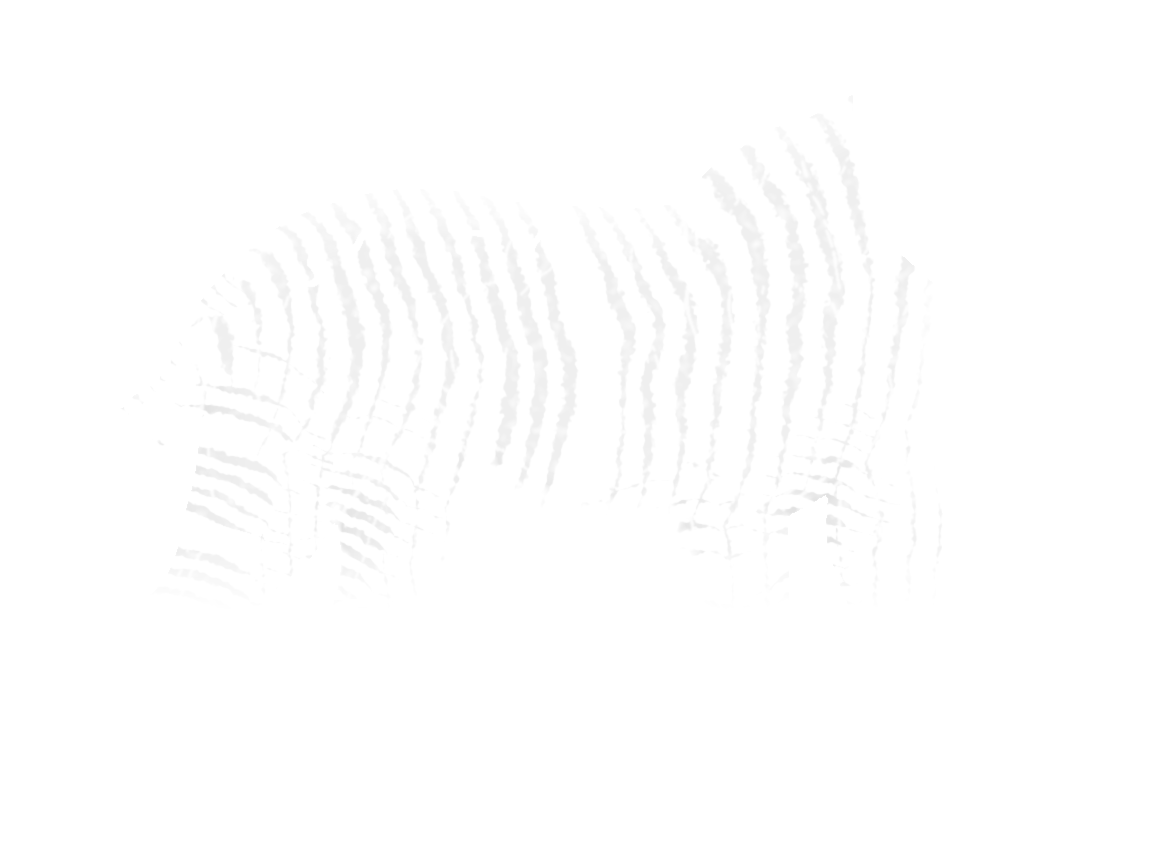
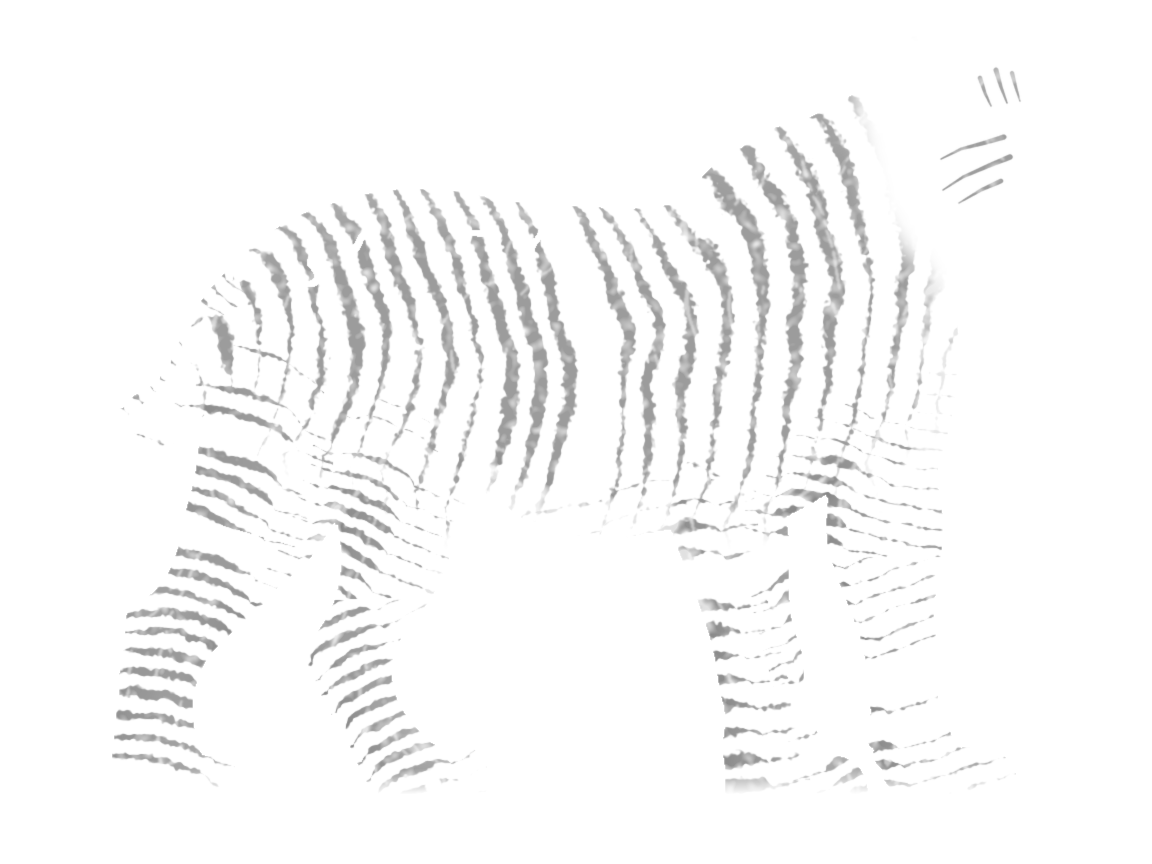
Portraits: Ochre's v4 faintstripe masks (limb bands, cheek/brow strokes); black faintstripe x0.5
- markings_faintstripe.png in portrait-male/ and portrait-female/: Ochre v4 (limb bands, cheek/brow strokes, stronger tan masks)
- compositor: melan + faintstripe multiplier 0.4 -> 0.5 (Ochre's proposal; Anna asked black up a little, still subtle;
  Director's call) -> 0.175/0.30/0.425; rounding 2 dp -> 4 dp so 0.175 stays exact
- tests updated; black spots/dorsal and other coats unchanged

diff --git a/test/compositor.test.js b/test/compositor.test.js
@@ -66,7 +66,7 @@ test('genesToLayers covers every creator option (cat-creator-spec v0.1 §3)', ()
     assert.strictEqual(L.sabers.tint, '#EFE7D2');
     const mk = Object.keys(L).filter((k) => k.startsWith('markings_'));
     if (m === 'plain') assert.deepStrictEqual(mk, []);
-    else { assert.deepStrictEqual(mk, ['markings_' + m]); assert.strictEqual(L[mk[0]].opacity, c === 'melan' && m === 'faintstripe' ? 0.24 : 0.6);
+    else { assert.deepStrictEqual(mk, ['markings_' + m]); assert.strictEqual(L[mk[0]].opacity, c === 'melan' && m === 'faintstripe' ? 0.3 : 0.6);
       assert.strictEqual(L[mk[0]].tint, c === 'melan' ? '#3A3836' : c === 'leuc' ? '#E6DED2' : multTint(hex)); }
     assert.ok(!Object.keys(L).some((k) => k.startsWith('white_') || k === 'age_elder'));
     for (const l of Object.keys(L)) if (l !== 'eye_right' || true) assert.ok(mf.layers.some((x) => x.id === l), `${l} in manifest`);
@@ -134,10 +134,10 @@ test('Ochre item 7: black (melan) markings draw after sheen with tint #3A3836, s
   assert.strictEqual(C.genesToLayers({ v: 1, loci: { coat: ['melan', 'leuc'], marking: ['spotted', 'spotted'] } }).markings_spotted.after, undefined);   // ash unchanged
   assert.strictEqual(C.TINTS.markingsMelan, '#3A3836');
 });
-test('Ochre item 7: black + faintstripe opacity × 0.4 = 0.14/0.24/0.34; black spots/dorsal and other coats unchanged', () => {
+test('Ochre item 7: black + faintstripe opacity × 0.5 = 0.175/0.30/0.425; black spots/dorsal and other coats unchanged', () => {
   const gi = (coat, mk, n) => { const x = g(coat, mk, 'amber'); x.loci.intensity = Array.from({ length: 2 }, (_, i) => (i < n ? 'I+' : 'i')); x.loci.dorsal = ['Ds', 'Ds']; return x; };
   const base = [0.35, 0.60, 0.85];
-  assert.deepStrictEqual([0, 1, 2].map((n) => C.genesToLayers(gi('melan', 'faintstripe', n)).markings_faintstripe.opacity), [0.14, 0.24, 0.34]);
+  assert.deepStrictEqual([0, 1, 2].map((n) => C.genesToLayers(gi('melan', 'faintstripe', n)).markings_faintstripe.opacity), [0.175, 0.3, 0.425]);
   assert.deepStrictEqual([0, 1, 2].map((n) => C.genesToLayers(gi('melan', 'faintstripe', n)).markings_dorsal.opacity), base);
   assert.deepStrictEqual([0, 1, 2].map((n) => C.genesToLayers(gi('melan', 'spotted', n)).markings_spotted.opacity), base);
   assert.deepStrictEqual([0, 1, 2].map((n) => C.genesToLayers(gi('melan', 'spotted', n)).markings_dorsal.opacity), base);

diff --git a/src/renderer/js/compositor.js b/src/renderer/js/compositor.js
@@ -38,8 +38,9 @@
   const STACK = ['base_coat', 'undercoat', 'markings', 'dorsal', 'shadow', 'rim', 'sheen', 'white', 'nose', 'eye_left', 'eye_right', 'sabers', 'claws', 'scars', 'age_elder'];
   // Black (melan) only: markings + dorsal draw just above `sheen` (still multiply) so the lit back doesn't wash them out (Ochre item 7).
   const MELAN_MARKINGS_AFTER = 'sheen';
-  // Black + faintstripe only: stripe opacity × 0.4 → 0.14 / 0.24 / 0.34 (Ochre). Rounded to 2 dp so 0.35 × 0.4 isn't 0.13999999999999999.
-  const MELAN_FAINTSTRIPE_OPACITY = 0.4;
+  // Black + faintstripe only: stripe opacity × 0.5 → 0.175 / 0.30 / 0.425 (Ochre v4 proposal, Director's call; was 0.4).
+  // Rounded to 4 dp to drop float noise (2 dp would turn 0.175 into 0.17/0.18).
+  const MELAN_FAINTSTRIPE_OPACITY = 0.5;
   const BLENDS = { normal: 'source-over', multiply: 'multiply', screen: 'screen' };
   const LIFE_STAGES = ['cub', 'adolescent', 'adult', 'elder'];
 
@@ -112,7 +113,7 @@
     const mTint = coatP === 'melan' ? TINTS.markingsMelan : coatP === 'leuc' ? TINTS.markingsLeuc : scale(mix('#FFFFFF', coat, MARKINGS_MIX), MARKINGS_SCALE);
     const mOp = INTENSITY_OPACITY[L.intensity ? count(L.intensity, 'I+') : 1];
     const mAfter = coatP === 'melan' ? { after: MELAN_MARKINGS_AFTER } : {};
-    const bodyOp = coatP === 'melan' && mk === 'faintstripe' ? Math.round(mOp * MELAN_FAINTSTRIPE_OPACITY * 100) / 100 : mOp;
+    const bodyOp = coatP === 'melan' && mk === 'faintstripe' ? Math.round(mOp * MELAN_FAINTSTRIPE_OPACITY * 1e4) / 1e4 : mOp;
     if (mk !== 'plain') out['markings_' + mk] = { tint: mTint, opacity: bodyOp, ...mAfter };
     if (Array.isArray(L.dorsal) && L.dorsal.includes('Ds')) out.markings_dorsal = { tint: mTint, opacity: mOp, ...mAfter };
     const w = L.white || ['none', 'none'];
